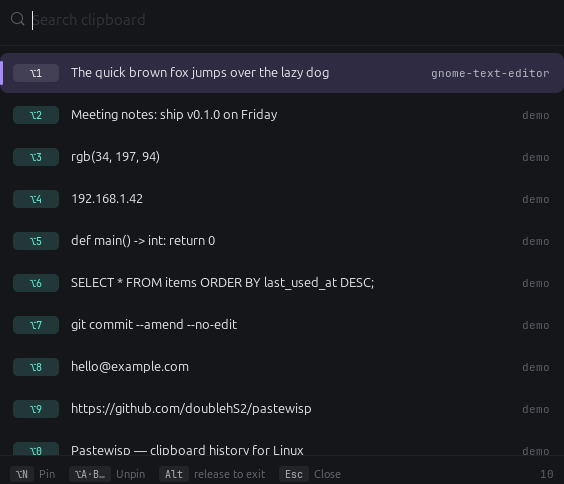
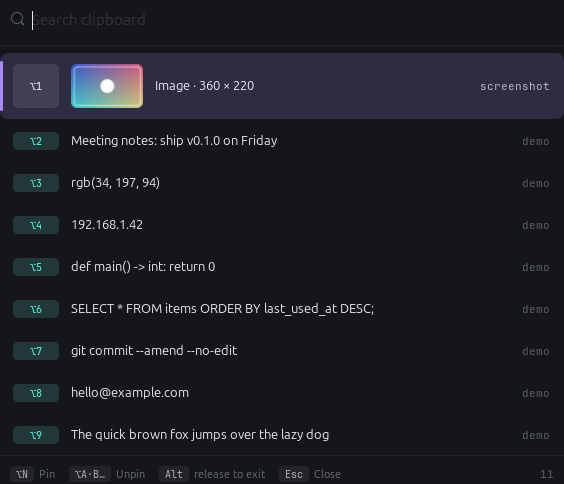
Show image clipboard support in screenshots
Seed one image history item (Pillow-generated) so the popup screenshot
demonstrates that images can be stored alongside text. Image seeding is
opt-in via PASTEWISP_SEED_IMAGE so the demo GIF stays text-only.

diff --git a/scripts/_seed_demo.py b/scripts/_seed_demo.py
@@ -6,6 +6,8 @@ so the most recently 'used' appears first in the popup.
 """
 from __future__ import annotations
 
+import io
+import os
 import time
 
 from pastewisp.db import Database
@@ -24,11 +26,38 @@ DEMO_ITEMS = [
 ]
 
 
+def _sample_png(w: int = 360, h: int = 220) -> bytes:
+    """A small, pleasant gradient PNG to demonstrate image clipboard support."""
+    from PIL import Image, ImageDraw
+
+    img = Image.new("RGB", (w, h))
+    px = img.load()
+    for y in range(h):
+        for x in range(w):
+            px[x, y] = (
+                int(60 + 150 * x / w),
+                int(90 + 110 * y / h),
+                int(200 - 80 * x / w),
+            )
+    d = ImageDraw.Draw(img)
+    d.rounded_rectangle([14, 14, w - 14, h - 14], radius=18, outline=(255, 255, 255), width=3)
+    d.ellipse([w // 2 - 34, h // 2 - 34, w // 2 + 34, h // 2 + 34], fill=(255, 255, 255))
+    buf = io.BytesIO()
+    img.save(buf, format="PNG")
+    return buf.getvalue()
+
+
 def main() -> None:
     db = Database()
-    base = int(time.time()) - len(DEMO_ITEMS) * 60
+    base = int(time.time()) - (len(DEMO_ITEMS) + 1) * 60
     for i, text in enumerate(DEMO_ITEMS):
         db.upsert_text(text, source_app="demo", now=base + i * 60)
+    # Optionally seed an image item (most recent, so it shows at the top) to
+    # demonstrate that images can also be stored. Enabled for screenshots only.
+    if os.environ.get("PASTEWISP_SEED_IMAGE"):
+        w, h = 360, 220
+        db.upsert_image(_sample_png(w, h), w, h, source_app="screenshot",
+                        now=base + (len(DEMO_ITEMS) + 1) * 60)
     print(f"seeded {db.count()} items at {db.path}")
     db.close()
 